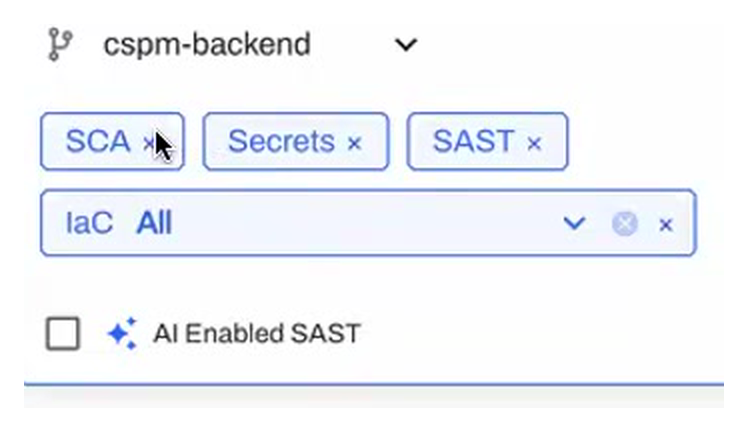
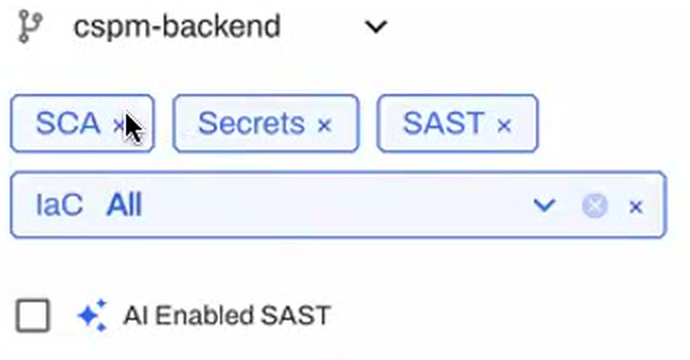
Add 16:9 feature screenshots to the v3.7 release notes
Add screenshots from the 3.7 Feature Screenshots doc for GCP role
impersonation, GCP organization onboarding, CIEM, registry scan
patterns, Groups, and xBOM, including the CBOM overview and the
Compare SBOM dialog. Replace the four xBOM images with newer captures.

Crop every new image to 16:9 with little empty space. Trim the zoomed
scan-type, secret-location, and GitHub app images and show them smaller
so their text matches the page text.

diff --git a/docs/getting-started/3.7-release.md b/docs/getting-started/3.7-release.md
@@ -68,7 +68,15 @@ Connect a GCP account with a service account that AccuKnox creates for you. A Te
 3. Download the Terraform script and run it with Terraform.
 4. Enter the client email that the process produces and click **Verify & Connect**.
 
-This works for a standalone project. For a whole organization, see [Onboard a GCP Organization](/how-to/gcp-org-onboard/).
+![Account Setup step for GCP with Role Impersonation selected as the connection method and the three Terraform steps](./images/release-notes/v3.7/gcp-role-impersonation-setup.png)
+
+This works for a standalone project. For a whole organization, choose **Organization Account** in the first step. See [Onboard a GCP Organization](/how-to/gcp-org-onboard/).
+
+![Choose Cloud Provider and Account type step with GCP and Organization Account selected](./images/release-notes/v3.7/gcp-org-choose-account-type.png)
+
+The organization then shows as a tree under **Cloud Accounts**, with its folders and projects nested below it.
+
+![Cloud Accounts list with a GCP organization expanded into folders and active projects](./images/release-notes/v3.7/gcp-org-account-tree.png)
 
 !!! note "Good to know"
     - You need Terraform installed on the machine that runs the script.
@@ -79,7 +87,11 @@ This works for a standalone project. For a whole organization, see [Onboard a GC
 
 Cloud Infrastructure Entitlement Management (CIEM) now has a switch in the onboarding flow. Turn it on when you add a **new standalone account**. AccuKnox adds the extra IAM permissions to the Terraform script for you. The rest of onboarding does not change.
 
+![Configure Scanning step with the CSPM, CIEM, and AI Security toggles](./images/release-notes/v3.7/ciem-onboarding-toggle.png){ width="700" }
+
 It works on AWS, Azure, GCP, and Oracle. After the first scan, the users, roles, and groups of the account appear under **Identities → CIEM**.
+
+![CIEM Identity list with cloud provider filter, risk class, classification as human or machine, and age in days](./images/release-notes/v3.7/ciem-identities.png)
 
 For each identity you can see:
 
@@ -152,6 +164,8 @@ A registry can hold thousands of image tags. Wildcard patterns cover most cases.
 
 Regex entries appear next to wildcard entries in the pattern list, and the info icon shows example patterns. Before you scan, type one tag into the test box. AccuKnox tells you whether the pattern includes or excludes it.
 
+![Registry form with Include and Exclude pattern fields, the Wildcard, Regex, and Test buttons, and the scan schedule](./images/release-notes/v3.7/registry-scan-patterns.png)
+
 !!! note "Good to know"
     The test checks one tag at a time. AccuKnox does not show how many images a pattern matches before the scan, because that count needs a background job.
 
@@ -220,6 +234,18 @@ To set it up:
 2. Add cloud accounts, repositories, or other assets.
 3. Add users. You can assign a group when you invite a user from the **Users** page. You can also open the group and use **Edit Group → Users → Add User**.
 
+![Groups list with the asset count and findings by severity for each group](./images/release-notes/v3.7/groups-list.png)
+
+The **Accounts**, **Code**, and **Unmanaged** tabs of the Create Group panel hold the assets you can add.
+
+![Create Group panel with the Accounts tab listing AWS, GCP, Oracle, and Azure accounts](./images/release-notes/v3.7/groups-create-assets.png){ width="640" }
+
+![Edit group panel on the Users tab with three mapped users and their Read and Write permissions](./images/release-notes/v3.7/groups-edit-users.png)
+
+A user's profile lists every group, with a Read and a Write box for each one.
+
+![User profile details with the role, MFA, and the Groups and Permissions table](./images/release-notes/v3.7/groups-user-permissions.png)
+
 ## xBOM
 
 ### xBOM Projects, Overview, and Compare
@@ -228,13 +254,13 @@ The BOM pages are redesigned around the kind of BOM you hold. xBOM means any BOM
 
 **Create a project.** Choose a classifier, such as application or device. AccuKnox then suggests the BOM types you probably want to upload. The suggestion is a hint, and you can upload any type.
 
-![Create Project dialog with a classifier and the expected BOM types SBOM, CBOM, AIBOM, HBOM, and QBOM](./images/release-notes/v3.7/xbom-create-project.png){ width="640" }
+![Create Project dialog with a classifier and the expected BOM types SBOM, CBOM, AIBOM, HBOM, and QBOM](./images/release-notes/v3.7/xbom-create-project.png)
 
 The project list also shows who created each project. Filter by creator when several people share a tenant.
 
 **Upload a BOM.** AccuKnox reads the file and shows the BOM type before you confirm. It checks the type again after parsing. The file shows as pending for a moment while vulnerability data is added.
 
-![Upload SBOM dialog showing the detected BOM type, the file name, and the label field](./images/release-notes/v3.7/xbom-upload-type-detection.png){ width="600" }
+![Upload SBOM dialog showing the detected BOM type, the file name, and the label field](./images/release-notes/v3.7/xbom-upload-type-detection.png)
 
 **Read the overview.** Each BOM gets an overview. It shows the format, the version, license risk, the component count, and findings by severity. Tabs hold the **Components**, **Vulnerabilities**, **Licenses**, and **Raw JSON** views. Export a BOM as CycloneDX or SPDX from the same page.
 
@@ -242,7 +268,13 @@ The project list also shows who created each project. Filter by creator when sev
 
 Components lists everything in the BOM. Vulnerabilities lists only the components that have a finding.
 
+A CBOM gets its own overview, with **Algorithms**, **Keys**, **Protocols**, **Certificates**, and **Evidence** tabs, a risk mix, and an asset inventory.
+
+![CBOM overview with the Algorithms, Keys, Protocols, Certificates, and Evidence tabs, risk mix, and asset inventory](./images/release-notes/v3.7/xbom-cbom-overview.png)
+
 **Compare two BOMs.** Select two BOMs of the same type and click **Compare**. AccuKnox lists the components that were added, removed, changed, or unchanged. Compare a local build with production before you push. Or track a project from release to release.
+
+![Compare SBOM dialog with a base SBOM and a secondary SBOM picked from the same project](./images/release-notes/v3.7/xbom-compare-select.png)
 
 ![SBOM Comparison with a status overview of added, removed, changed, and unchanged components, and filter chips](./images/release-notes/v3.7/xbom-compare.png)
 
@@ -391,7 +423,7 @@ Application security scanning is now driven by a source code connection instead 
 
 The permission grant is read-only. During install you choose whether the app can see **all repositories** or **only selected repositories**, and the app requests read access to the metadata it needs to fetch and scan code.
 
-![AccuKnox source code app install screen on GitHub, choosing all or selected repositories with read-only permissions](./images/release-notes/v3.7/github-app-install-permissions.png){ width="560" }
+![AccuKnox source code app install screen on GitHub, choosing all or selected repositories with read-only permissions](./images/release-notes/v3.7/github-app-install-permissions.png){ width="480" }
 
 Once connected, the connection appears under **Settings → Integrations → Code Source Configuration**, where you can manage every source you have linked and see its status at a glance.
 
@@ -421,7 +453,7 @@ Phase 1 supports four scan types:
 
 Select **AI Enabled SAST** to add AI-assisted analysis on top of the standard static scan.
 
-![Scan-type selector with SCA, Secrets, SAST, and IaC chips and the AI Enabled SAST option](./images/release-notes/v3.7/scan-types-ai-enabled-sast.png){ width="520" }
+![Scan-type selector with SCA, Secrets, SAST, and IaC chips and the AI Enabled SAST option](./images/release-notes/v3.7/scan-types-ai-enabled-sast.png){ width="340" }
 
 Scan choices are made per branch, so you can, for example, run the full set on `main` and a lighter set on feature branches.
 
@@ -451,7 +483,7 @@ Secret findings now point to the exact place the secret was found: the repositor
 
 The location resolves down to the character range within the file, not just the file name, which makes it fast to open the finding at the right line in your source code manager.
 
-![Zoom on a secret finding location showing file path with line and column range](./images/release-notes/v3.7/secret-finding-location-zoom.png)
+![Zoom on a secret finding location showing file path with line and column range](./images/release-notes/v3.7/secret-finding-location-zoom.png){ width="420" }
 
 This is a direct improvement over the older secret-scan links, where findings could only point you to a file or a commit and left you to search for the actual line.
 
